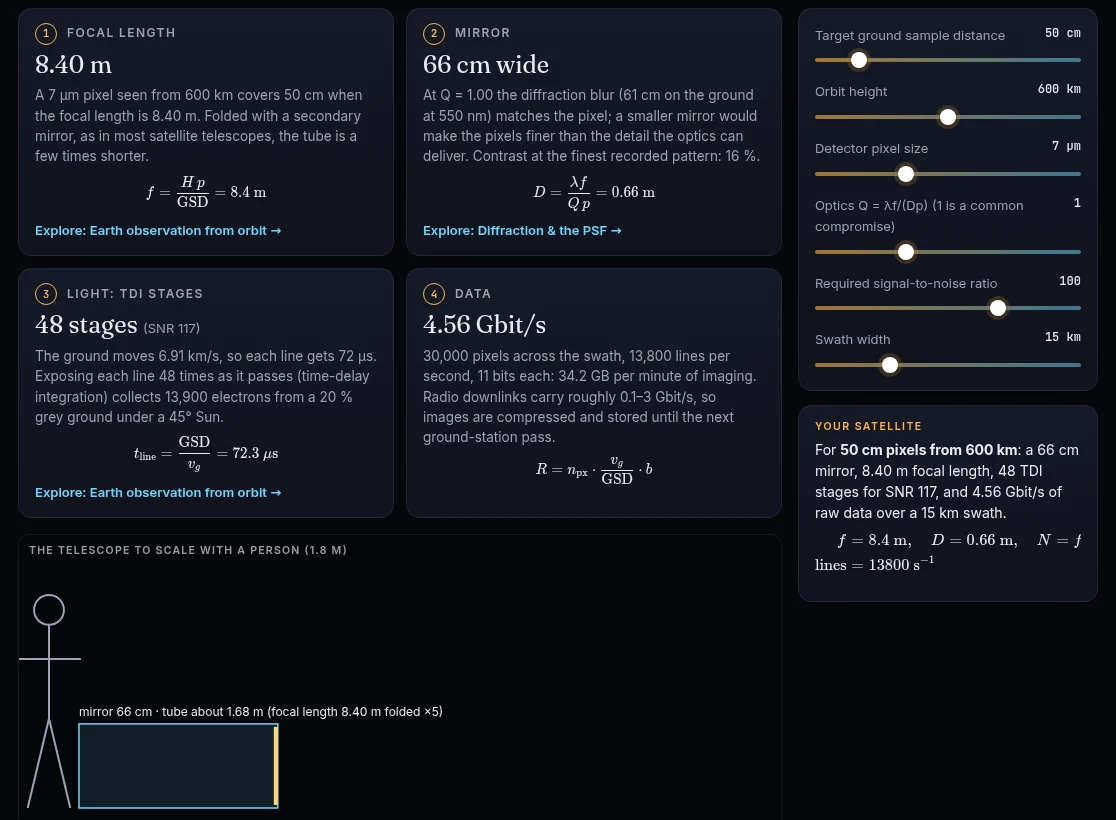
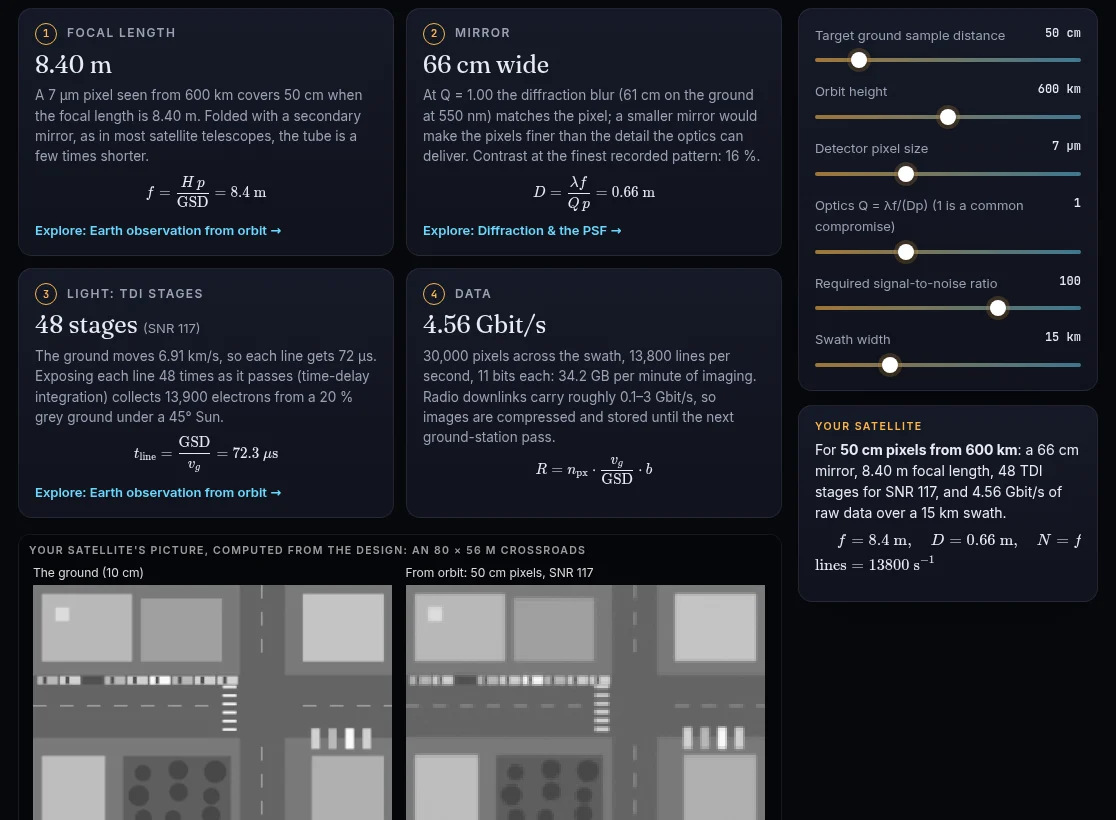
feat(mission-satellite): the picture the design takes (#281)
An 80 × 56 m crossroads (the Earth-observation lab's groundScene) at
10 cm beside the satellite's view from imageFromOrbit with the design's
GSD, mirror, TDI signal and stages: blur, pixel and one pixel of motion,
sampling, photon and read noise. The reference is box-averaged for
display so 15 cm lane markings stay visible; the satellite's pixels are
drawn as squares. Roadmap: the "other missions" backlog entry is removed
(Jupiter, eclipse and exoplanet already show results).

Changed region(s): [[0.0305, 0.6402, 0.7007, 1.0]]

diff --git a/js/modules/mission-satellite.js b/js/modules/mission-satellite.js
@@ -4,6 +4,9 @@ import { header, lab, idea, rule, theory, references, liveCalc, missionStep } fr
 import { MODULES } from '../app.js';
 import { designFor } from '../lib/satellite.js';
 import { t } from '../lib/i18n.js';
+import { groundScene, imageFromOrbit } from '../lib/earthobs.js';
+import { makeRng } from '../lib/random.js';
+import { paint, encode, keyOf, bilinear } from '../lib/pixels.js';
 
 const titleOf = (id) => MODULES.find((m) => m.id === id)?.title || id;
 const len = (m) => (m < 1 ? (m * 100).toFixed(0) + ' cm' : m.toPrecision(3) + ' m');
@@ -33,7 +36,29 @@ export default function mount(root, meta) {
     missionStep(4, 'Data', null, ''),
   ];
   const view = stage({ aspect: 2.6, label: 'The telescope to scale with a person (1.8 m)', draw: drawScale, minH: 200 });
-  root.append(lab([h('div.msteps', {}, ...steps.map((s) => s.el)), view.el], [h('div.card', {}, ctl.el), calc.el]));
+  const shot = stage({ aspect: 2.45, label: 'Your satellite\'s picture, computed from the design: an 80 × 56 m crossroads', draw: drawShot, minH: 220 });
+  root.append(lab([h('div.msteps', {}, ...steps.map((s) => s.el)), shot.el, view.el], [h('div.card', {}, ctl.el), calc.el]));
+
+  // The picture the design gives, with the Earth-observation laboratory's models (js/lib/earthobs.js):
+  // the ground at 10 cm, and the same ground blurred by the mirror, integrated over the pixel and one
+  // pixel of motion, sampled at the GSD, with photon and read noise for the planned TDI signal.
+  const SCENE = groundScene(80, 56, 0.1, makeRng(5).u);
+  // the 10 cm ground averaged over 3 × 3 cells for display, so 15 cm lane markings shrink without vanishing
+  const REF = (() => { const k = 3, W = Math.floor(SCENE.W / k), H = Math.floor(SCENE.H / k), g = new Float32Array(W * H); for (let y = 0; y < H * k; y++) for (let x = 0; x < W * k; x++) g[Math.floor(y / k) * W + Math.floor(x / k)] += SCENE.g[y * SCENE.W + x] / (k * k); return { g, W, H }; })();
+  let SHOT = null;
+  function drawShot(ctx, w, hh, st) {
+    ctx.fillStyle = '#05060a'; ctx.fillRect(0, 0, w, hh);
+    if (!SHOT) return;
+    const gap = 14, top = 50, pw = Math.min((w - 3 * gap) / 2, ((hh - top - 10) * 80) / 56), ph = (pw * 56) / 80;
+    const panels = [[REF.g, REF.W, REF.H, t('The ground (10 cm)')], [SHOT.img, SHOT.w, SHOT.h, t('From orbit: {gsd} pixels, SNR {snr}', { gsd: len(R.st.gsd), snr: R.snr.toFixed(0) })]];
+    panels.forEach(([a, W, H, label], i) => {
+      const x0 = gap + i * (pw + gap);
+      // the reference is resampled smoothly, the satellite's pixels are shown as squares
+      paint(st, { x: x0, y: top, w: pw, h: ph }, (u, v, o) => { const r = i ? a[Math.min(H - 1, (v * H) | 0) * W + Math.min(W - 1, (u * W) | 0)] : bilinear(a, W, H, u * W - 0.5, v * H - 0.5); o[0] = o[1] = o[2] = encode(Math.max(0, r) * 1.6); }, keyOf(SHOT), i);
+      ctx.fillStyle = 'rgba(255,255,255,0.85)'; ctx.font = '12px Inter, sans-serif'; ctx.textAlign = 'left';
+      ctx.fillText(label, x0, top - 8);
+    });
+  }
 
   let R = null;
   function update() {
@@ -69,7 +94,8 @@ export default function mount(root, meta) {
     f &= ${texNum(r.f, 3)}\ \text{m},\quad D = ${texNum(r.D, 3)}\ \text{m},\quad N = f/D = ${texNum(r.f / r.D, 3)}\\
     \text{lines} &= ${texNum(r.lineRate, 3)}\ \text{s}^{-1}
     \end{aligned}`);
-    view.redraw();
+    SHOT = imageFromOrbit(SCENE, { gsd: st.gsd, e: R.e }, { H: st.H * 1000, D: R.D, N: R.N }, makeRng(9).g);
+    view.redraw(); shot.redraw();
   }
 
   function drawScale(ctx, w, hh) {
@@ -108,5 +134,5 @@ export default function mount(root, meta) {
     'R. D. Fiete, "Image quality and λFN/p for remote sensing systems", Optical Engineering 38, 1229 (1999).',
     'W. J. Larson and J. R. Wertz (eds.), <i>Space Mission Analysis and Design</i>, 3rd ed., Microcosm (1999).',
   ]));
-  return () => [view].forEach((s) => s.destroy());
+  return () => [shot, view].forEach((s) => s.destroy());
 }

diff --git a/js/locales/de.js b/js/locales/de.js
@@ -1,6 +1,9 @@
 // German interface strings, keyed by the English text (see js/lib/i18n.js).
 // test/i18n.test.mjs checks that every key is used and every interface string is here.
 export default {
+  "Your satellite's picture, computed from the design: an 80 × 56 m crossroads": "Das Bild Ihres Satelliten, aus dem Entwurf berechnet: eine Kreuzung von 80 × 56 m",
+  "The ground (10 cm)": "Der Boden (10 cm)",
+  "From orbit: {gsd} pixels, SNR {snr}": "Aus der Umlaufbahn: {gsd} Pixel, SNR {snr}",
   "Your photograph, computed from the plan: a crop at 100 %, one frame and the stack": "Ihr Foto, aus dem Plan berechnet: ein Ausschnitt in 100 %, ein Einzelbild und der Stapel",
   "One {t} frame at ISO {iso}": "Ein Einzelbild von {t} bei ISO {iso}",
   "Stack of {n} frames ({min} min)": "Stapel aus {n} Bildern ({min} min)",

diff --git a/js/locales/fr.js b/js/locales/fr.js
@@ -1,6 +1,9 @@
 // French interface strings, keyed by the English text (see js/lib/i18n.js).
 // test/i18n.test.mjs checks that every key is used and every interface string is here.
 export default {
+  "Your satellite's picture, computed from the design: an 80 × 56 m crossroads": "L’image de votre satellite, calculée à partir de la conception : un carrefour de 80 × 56 m",
+  "The ground (10 cm)": "Le sol (10 cm)",
+  "From orbit: {gsd} pixels, SNR {snr}": "Depuis l’orbite : pixels de {gsd}, SNR {snr}",
   "Your photograph, computed from the plan: a crop at 100 %, one frame and the stack": "Votre photo, calculée à partir du plan : un recadrage à 100 %, une pose et la pile",
   "One {t} frame at ISO {iso}": "Une pose de {t} à ISO {iso}",
   "Stack of {n} frames ({min} min)": "Pile de {n} poses ({min} min)",

diff --git a/js/locales/es.js b/js/locales/es.js
@@ -1,6 +1,9 @@
 // Spanish interface strings, keyed by the English text (see js/lib/i18n.js).
 // test/i18n.test.mjs checks that every key is used and every interface string is here.
 export default {
+  "Your satellite's picture, computed from the design: an 80 × 56 m crossroads": "La imagen de tu satélite, calculada a partir del diseño: un cruce de 80 × 56 m",
+  "The ground (10 cm)": "El suelo (10 cm)",
+  "From orbit: {gsd} pixels, SNR {snr}": "Desde la órbita: píxeles de {gsd}, SNR {snr}",
   "Your photograph, computed from the plan: a crop at 100 %, one frame and the stack": "Tu foto, calculada a partir del plan: un recorte al 100 %, una toma y el apilado",
   "One {t} frame at ISO {iso}": "Una toma de {t} a ISO {iso}",
   "Stack of {n} frames ({min} min)": "Apilado de {n} tomas ({min} min)",

diff --git a/ROADMAP.md b/ROADMAP.md
@@ -591,7 +591,6 @@ Candidates, in order of how much the third dimension adds:
 Ideas worth keeping but not yet scheduled:
 
 - *(from v1.2)* **WebGPU compute path** for FFTs, phase screens and per-pixel ray casting, with a mandatory CPU fallback; waits until the Raspberry Pi 4 or the CI runners expose a WebGPU adapter to test it on.
-- *(from v1.42)* **A picture of the result on the other missions** (the portrait session and the Milky Way have one): Jupiter through the seeing, the eclipse exposure set, the satellite's ground image at its GSD.
 - *(from v1.36)* **Soft shadows and tighter framing in the 3-D views**: the scenes have no ground to cast onto, and shadow maps are heavy on the Raspberry Pi; framing would fit the camera to the meshes rather than to every ray.
 - *(from v1.36)* **Wide-gamut output** (Display P3 canvases) for spectral colours: needs the colours kept outside sRGB through the computation (the PSF clips negative components today) and a P3 screen to check it on; gains nothing on sRGB screens.
 - *(from v1.3)* Traced relative illumination across the field (real-ray pupil area and cos⁴ projection) in the ray tracer.

diff --git a/CHANGELOG.md b/CHANGELOG.md
@@ -7,6 +7,7 @@ The format follows [Keep a Changelog](https://keepachangelog.com/en/1.1.0/), and
 ## [Unreleased]
 
 ### Added
+- **Design an Earth-observation satellite: the picture your design takes.** An 80 × 56 m crossroads shown at 10 cm and as your satellite records it: blurred by the planned mirror, integrated over the pixel and one pixel of motion, sampled at the chosen ground sample distance, with the noise of the planned TDI signal (the Earth-observation laboratory's models). Lane markings and the zebra crossing survive at 50 cm and vanish at 2 m.
 - **Photograph the Milky Way: the photograph your plan gives.** A crop of the frame at 100 %, side by side as one sub-exposure and as the stack of the planned number of frames, computed from the plan's own rates: the sky glow of the chosen Bortle class, the faint detail you asked for (with dark lanes), stars from a realistic count, blurred by the lens and trailed by the planned amount, photon and read noise at the chosen ISO. With one stretch for both, a single frame is noise and the stack shows the structure.
 
 ## [1.43.0] - 2026-11-11

diff --git a/README.md b/README.md
@@ -153,7 +153,7 @@ Shutter angles that cancel mains flicker, which dimmed LED fixtures band on a ro
 Two cameras for the same shot, or two telescopes: which gathers more light, blurs the background more or shows finer detail, and which settings make them equivalent.
 
 **Design an Earth-observation satellite** · `#/mission-satellite`<br>
-<img src="docs/screenshots/mission-satellite.webp" alt="Satellite design mission: focal length, mirror, TDI stages and data rate, with the telescope drawn next to a person" width="70%">
+<img src="docs/screenshots/mission-satellite.webp" alt="Satellite design mission: focal length, mirror, TDI stages and data rate, the crossroads as the satellite records it, with the telescope drawn next to a person" width="70%">
 
 From the ground resolution you want to the focal length, mirror, TDI stages and data rate.
 
